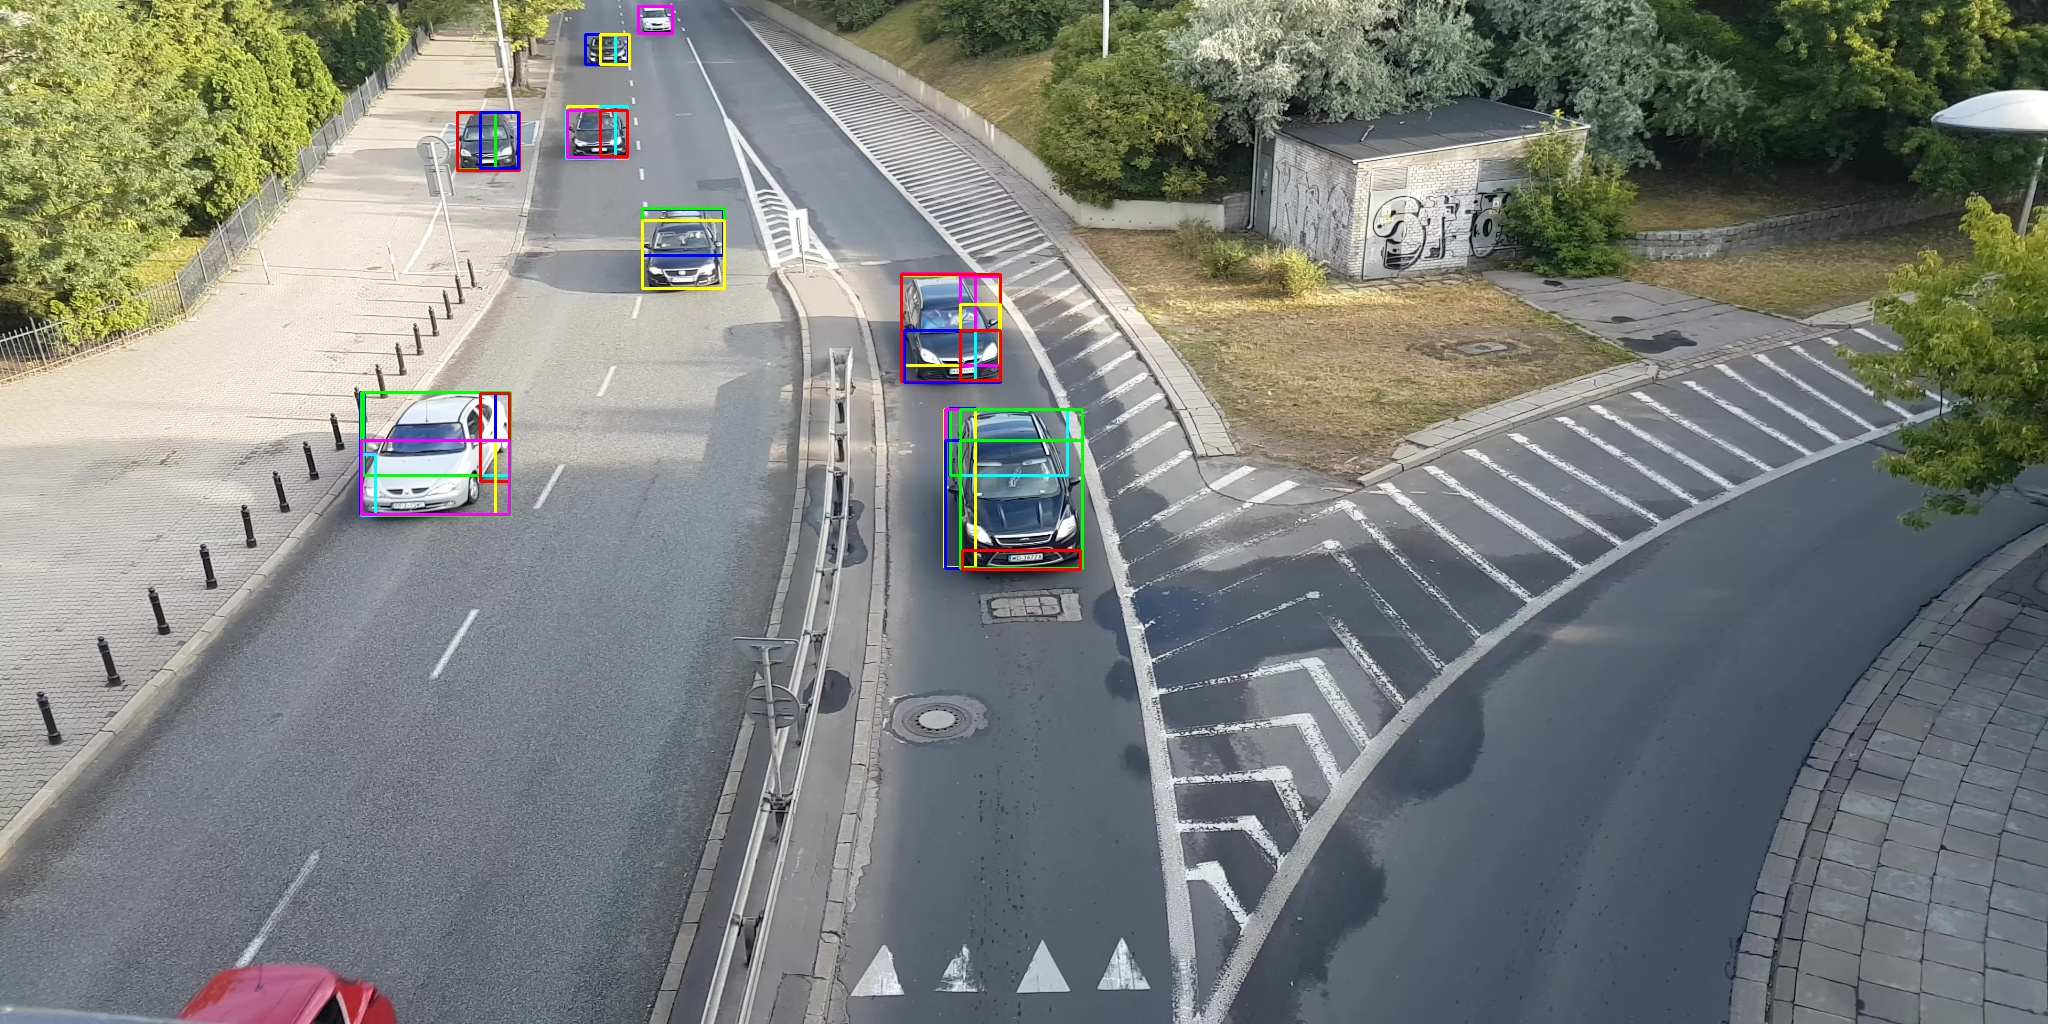
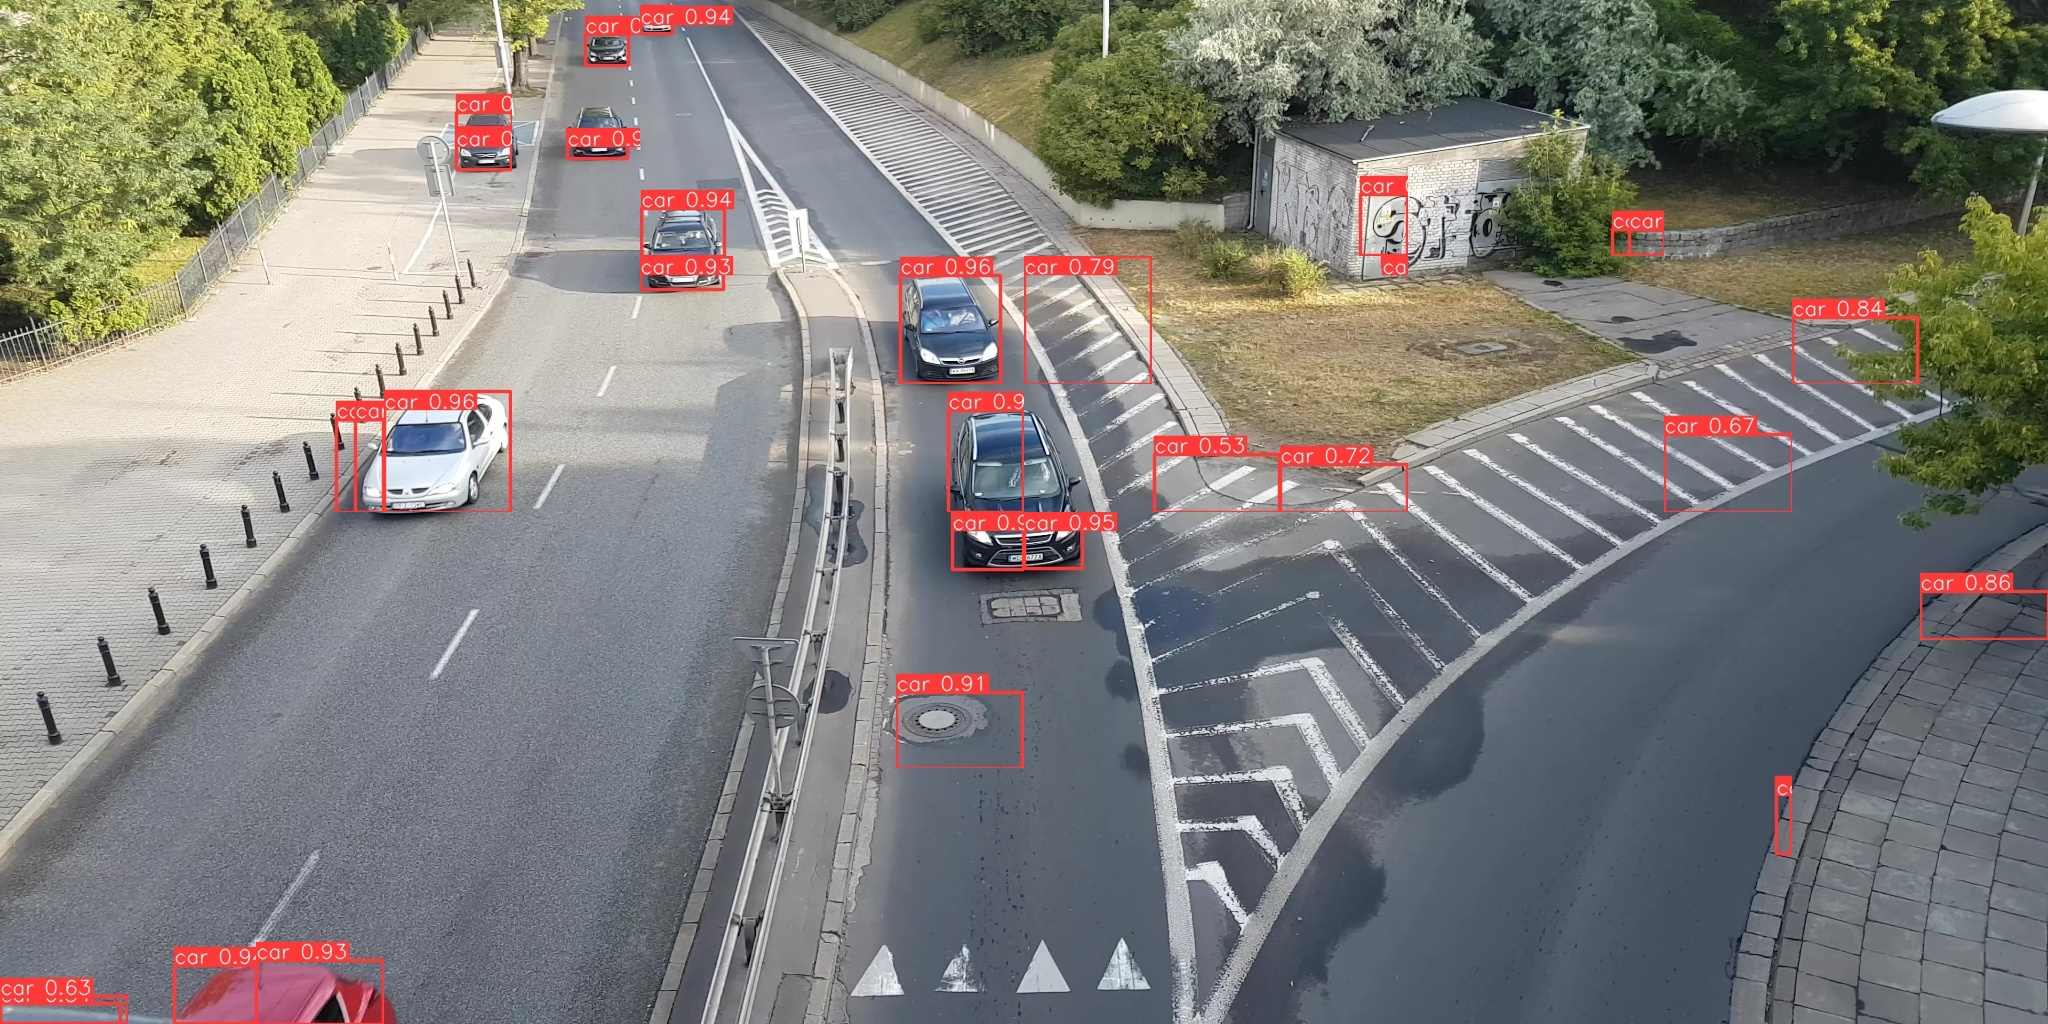
to do full implementation

diff --git a/my/main.py b/my/main.py
@@ -6,13 +6,16 @@ import numpy as np
 from ultralytics import YOLO
 from test_cluster import dbscan_clustering
 from myMedianTracker import xyxy2xywh, mkdir_if_missing, transform_bbox
+from utils import STrack
+
 
 def tlwh2xywhn(x, H, W):  
     y = np.empty_like(x)
-    y[..., 0] = (x[..., 0] + x[..., 2] / 2) / W
-    y[..., 1] = (x[..., 1] + x[..., 3] / 2) / H
-    y[..., 2] = x[..., 2] / W
-    y[..., 3] = x[..., 3] / H
+    if y.size != 0:
+        y[..., 0] = (x[..., 0] + x[..., 2] / 2) / W
+        y[..., 1] = (x[..., 1] + x[..., 3] / 2) / H
+        y[..., 2] = x[..., 2] / W
+        y[..., 3] = x[..., 3] / H
     return y
 
 def detection_rate_adjuster(cluster_num):
@@ -27,12 +30,13 @@ def detection_rate_adjuster(cluster_num):
     return detection_rate
 
 if __name__ == '__main__':
-    img_root = '/home/wiser-renjie/remote_datasets/wildtrack/datasets_combined/test/images'
+    img_root = '/home/wiser-renjie/remote_datasets/traffic/video1_30fps'
     save_root = '/home/wiser-renjie/projects/yolov8/my/runs/my'
-    cam_id = 'C1'
+    cam_id = 'video1_30fps'
     save_path = mkdir_if_missing(osp.join(save_root, cam_id))
     
     interval = 10
+    light_track_frames = 3
     
     model = YOLO('yolov8x.pt')
     tracker = cv2.legacy.MultiTracker_create()
@@ -42,9 +46,6 @@ if __name__ == '__main__':
     for i, img_filename in enumerate(sorted(os.listdir(img_root))):
         
         img_path = osp.join(img_root, img_filename)
-        
-        if cam_id not in img_filename:
-            break
         
         img0 = cv2.imread(img_path)
         
@@ -57,7 +58,7 @@ if __name__ == '__main__':
         
         if i % interval == 0:
             trackers.clear()
-            results = model.predict(img, save_txt=True, save=True, classes=[0], imgsz=640, conf=0.5)
+            results = model.predict(img, save_txt=False, save=False, classes=[2], imgsz=640, conf=0.5)
             bboxes = results[0].boxes.xyxy.cpu().numpy().astype(np.int32)
             scores = results[0].boxes.conf.cpu().numpy().astype(np.float32)
             
@@ -66,6 +67,8 @@ if __name__ == '__main__':
             # print(f'Updated interval to {interval}')
             
             bboxes = xyxy2xywh(bboxes)
+            
+            dets = np.array([STrack(tlwh) for tlwh in bboxes], dtype=object)
             
             t1 = time.time()
             for bbox in bboxes:
@@ -77,28 +80,48 @@ if __name__ == '__main__':
             print('Init time: {} ms\n'.format((t2-t1)*1000))
             
         else:
-            t3 = time.time()
-            
-            oks = []
-            bboxes = []
-            
-            for tracker in trackers:
-                ok, bbox = tracker.update(img)
-                oks.append(ok)
-                bboxes.append(bbox)
+            if i % interval <= light_track_frames:
+                t3 = time.time()
                 
-            bboxes = np.array(bboxes)
-            
-            # bboxes = bboxes[oks]
-            # dets = dets[oks]
-            
-            t4 = time.time()
-            print('Light Tracker: {} ms\n'.format((t4-t3)*1000))
+                bboxes = []
+                
+                for j, tracker in enumerate(trackers):
+                    ok, bbox = tracker.update(img)
+                    if not ok:
+                        dets[j].predict()
+                        bbox = dets[j].bbox
+                    bboxes.append(bbox)
+                    
+                bboxes = np.array(bboxes)
+                
+                t4 = time.time()
+                print('Light Tracker: {} ms\n'.format((t4-t3)*1000))
+                
+                for bbox, det in zip(bboxes, dets):
+                    det.predict()
+                    det.update(bbox)
+                    
+            else:
+                bboxes = []
+                for det in dets:
+                    det.predict()
+                    bbox = det.bbox
+                    # det.update(bbox)
+                    bboxes.append(bbox)
+                bboxes = np.array(bboxes)
     
     
         bboxes = transform_bbox(bboxes, H0, W0, H, W)
         
-        color = (0, 0, 255) if i % interval == 0 else (255, 0, 0)
+        if i % interval == 0: 
+            color = (0, 0, 255)                # red for detector
+            print('red')
+        elif i % interval <= light_track_frames:
+            color = (255, 0, 0)                # blue for light tracker
+            print('blue')
+        else:
+            color = (0, 255, 0)                # green for kalman
+            print('green')
         # Draw bounding boxes
         for bbox in bboxes.astype(np.int32):
             x1, y1, w, h = bbox 
@@ -109,4 +132,4 @@ if __name__ == '__main__':
         
         cv2.imwrite(osp.join(save_path, img_filename.replace('png', 'jpg')), img0_copy)
         
-        np.savetxt(osp.join(save_path, img_filename.replace('png', 'txt')), bboxes)
+        # np.savetxt(osp.join(save_path, img_filename.replace('png', 'txt')), bboxes)

diff --git a/my/test_merge.py b/my/test_merge.py
@@ -1,0 +1,73 @@
+import cv2
+import numpy as np
+
+def find_position(skyline, width, height):
+    best_x, best_y = None, None
+    min_height = float('inf')
+    for i in range(len(skyline) - width + 1):
+        max_height = max(skyline[i:i+width])
+        if max_height + height < min_height:
+            best_x = i
+            best_y = max_height
+            min_height = max_height + height
+    return best_x, best_y, min_height
+
+def update_skyline(skyline, x, width, height):
+    for i in range(width):
+        skyline[x + i] = height
+
+def rectangle_packing(rectangles):
+    total_area = sum(rect['width'] * rect['height'] for rect in rectangles)
+    side_length = int(np.ceil(np.sqrt(total_area)))
+    container_width = side_length
+    skyline = [0] * container_width
+
+    rectangles_sorted = sorted(rectangles, key=lambda r: -r['height'])
+
+    container_height = 0
+    for rect in rectangles_sorted:
+        x, y, new_height = find_position(skyline, rect['width'], rect['height'])
+        if x is not None:
+            rect['x'] = x
+            rect['y'] = y
+            update_skyline(skyline, x, rect['width'], new_height)
+            container_height = max(container_height, new_height)
+        else:
+            # If no position is found, expand container width and retry
+            container_width += rect['width']
+            skyline.extend([0] * rect['width'])
+            x, y, new_height = find_position(skyline, rect['width'], rect['height'])
+            rect['x'] = x
+            rect['y'] = y
+            update_skyline(skyline, x, rect['width'], new_height)
+            container_height = max(container_height, new_height)
+
+    container = np.zeros((container_height, container_width, 3), dtype=np.uint8)
+    for rect in rectangles_sorted:
+        container[rect['y']:rect['y']+rect['height'], rect['x']:rect['x']+rect['width']] = (255, 255, 255)
+        cv2.rectangle(container, (rect['x'], rect['y']), (rect['x'] + rect['width'], rect['y'] + rect['height']), (0, 0, 0), 1)
+
+    return container
+
+def save_image(container, output_path):
+    cv2.imwrite(output_path, container)
+
+def crop_to_fit(container, rectangles):
+    max_x = max(rect['x'] + rect['width'] for rect in rectangles)
+    max_y = max(rect['y'] + rect['height'] for rect in rectangles)
+    return container[:max_y, :max_x]
+
+# 定义矩形框，包含宽度和高度
+rectangles = [
+    {'width': 160, 'height': 20},
+    {'width': 140, 'height': 240},
+]
+
+import time
+t1 = time.time()
+container = rectangle_packing(rectangles)
+container = crop_to_fit(container, rectangles)
+t2 = time.time()
+print((t2-t1)*1000)
+output_path = "packed_image_fast.png"
+save_image(container, output_path)

diff --git a/my/utils.py b/my/utils.py
@@ -1,7 +1,6 @@
 import numpy as np
 from kalman_filter import KalmanFilter
 
-
 class STrack(object):
     def __init__(self, tlwh):
         self._tlwh = np.asarray(tlwh, dtype=np.float32)
@@ -74,3 +73,45 @@ class STrack(object):
         ret = np.asarray(tlwh).copy()
         ret[2:] += ret[:2]
         return ret
+    
+def compute_union(bboxes, img_size):      # img_size = (H, W)
+    if not bboxes:
+        return None
+    
+    bboxes = np.array(bboxes)
+    x1 = np.min(bboxes[:, 0])
+    y1 = np.min(bboxes[:, 1])
+    x2 = np.max(bboxes[:, 2])
+    y2 = np.max(bboxes[:, 3])
+    
+    # Clip the union bbox to be within the image size
+    x1 = max(0, x1)
+    y1 = max(0, y1)
+    x2 = min(img_size[1], x2)
+    y2 = min(img_size[0], y2)
+    
+    return (x1, y1, x2, y2)
+
+def bbox_to_blocks(union_region, block_size):
+    x1, y1, x2, y2 = union_region
+    block_w, block_h = block_size
+
+    # Calculate block indices
+    start_block_x = x1 // block_w
+    start_block_y = y1 // block_h
+    end_block_x = (x2 + block_w - 1) // block_w  # ceil division
+    end_block_y = (y2 + block_h - 1) // block_h  # ceil division
+
+    # # Generate list of block coordinates
+    # blocks = []
+    # for bx in range(start_block_x, end_block_x):
+    #     for by in range(start_block_y, end_block_y):
+    #         blocks.append((bx, by))
+    block_region = (block_size * start_block_x, block_size * start_block_y, block_size * end_block_x, block_size * end_block_y)
+    
+    return block_region
+
+def merge_region(img, block_regions):
+    if len(block_regions) == 1:
+        return block_regions[0]
+    

diff --git a/my/test_crop_DIY.py b/my/test_crop_DIY.py
@@ -74,9 +74,9 @@ if __name__ == '__main__':
     blocks, coordinates = split_image(img, block_size=256, block_dim=(8, 16))
     
     # Yolox = YOLO('yolov8x.pt')
-    Yolox = YOLO('yolov8x.pt')
+    Yolox = YOLO('/home/wiser-renjie/projects/yolov8/my/runs/detect/train8/weights/best.pt')
     
-    preds = Yolox.predict(blocks, save=False, classes=[2], imgsz=blocks[0].shape[:2], conf=0.5)
+    preds = Yolox.predict(blocks, save=False, classes=[0], imgsz=blocks[0].shape[:2], conf=0.5)
 
     results = []
     for pred in preds:
@@ -84,4 +84,4 @@ if __name__ == '__main__':
         results.append(bboxes)
         
     img_combined = map_results(img, results, coordinates)
-    cv2.imwrite('test_combined.jpg', img_combined)
+    cv2.imwrite('test_combined2.jpg', img_combined)

diff --git a/my/test.py b/my/test.py
@@ -11,10 +11,11 @@ def plot_bbox(img, bbox, color=(0, 255, 0), thickness=2):
 # Load a pretrained YOLOv8n model
 model = YOLO('yolov8x.pt')
 
-img = cv2.imread('/home/wiser-renjie/remote_datasets/wildtrack/datasets_separated/C1/images/00000900.png')
+img = cv2.imread('/home/wiser-renjie/remote_datasets/wildtrack/datasets_combined/train/images/C7_00001300.png')
 
-results = model.predict(img, save_txt=False, save=True, classes=[0], imgsz=(1080, 1920), conf=0.5)
+results = model.predict(img, save_txt=False, save=False, classes=[0], imgsz=(1080, 1920), conf=0.5)
 
+print(results[0].tojson())
 # bboxes = results[0].boxes.xyxy.cpu().numpy()
 # scores = results[0].boxes.conf.cpu().numpy()
 

diff --git a/my/combine_video.py b/my/combine_video.py
@@ -30,7 +30,7 @@ def create_video_from_folder(folder_path, output_file, fps):
     out.release()
 
 # Example usage:
-folder_path = "/home/wiser-renjie/projects/yolov8/my/runs/my/cam7"  # Replace with the path to your folder
-output_file = "/home/wiser-renjie/projects/yolov8/my/cam7.mp4"
+folder_path = "/home/wiser-renjie/projects/yolov8/my/runs/my/video1_30fps"  # Replace with the path to your folder
+output_file = "/home/wiser-renjie/projects/yolov8/my/video1_30fps.mp4"
 fps = 30  # Frames per second
 create_video_from_folder(folder_path, output_file, fps)

diff --git a/my/myMedKF.py b/my/myMedKF.py
@@ -8,7 +8,7 @@ from utils import STrack
 from myMedianTracker import mkdir_if_missing, xyxy2xywh, transform_bbox
 
 if __name__ == '__main__':
-    img_root = '/home/wiser-renjie/remote_datasets/traffic/video3_30fps'
+    img_root = '/home/wiser-renjie/remote_datasets/traffic/video1_30fps'
     # img_root = '/home/wiser-renjie/remote_datasets/MOT17/MOT17-04-SDP/img1'
     result_root = '/home/wiser-renjie/projects/yolov8/my/runs/my'
     exp_id = 'test'

diff --git a/my/test_cluster.py b/my/test_cluster.py
@@ -129,7 +129,7 @@ model = YOLO('yolov8x.pt')
 
 img = cv2.imread('/home/wiser-renjie/remote_datasets/wildtrack/datasets_combined/train/images/C7_00001360.png')
 
-results = model.predict(img, save_txt=False, save=True, classes=[0], imgsz=640, conf=0.5)
+results = model.predict(img, save_txt=False, save=False, classes=[0], imgsz=640, conf=0.5)
 
 bboxes = results[0].boxes.xyxy.cpu().numpy()
 scores = results[0].boxes.conf.cpu().numpy()
